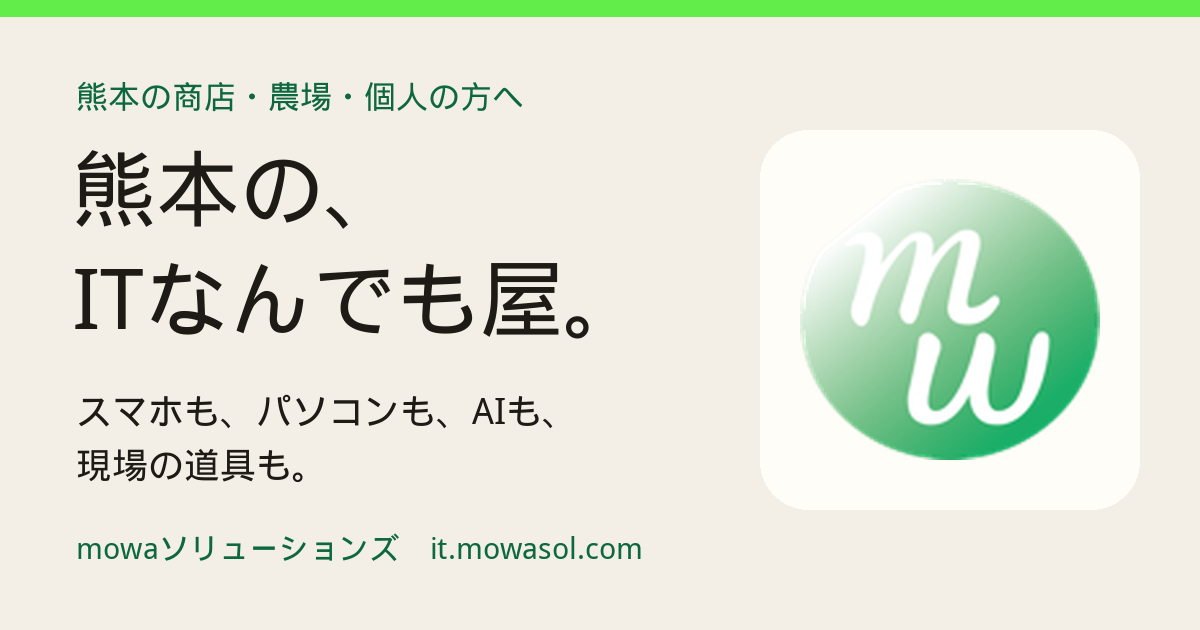
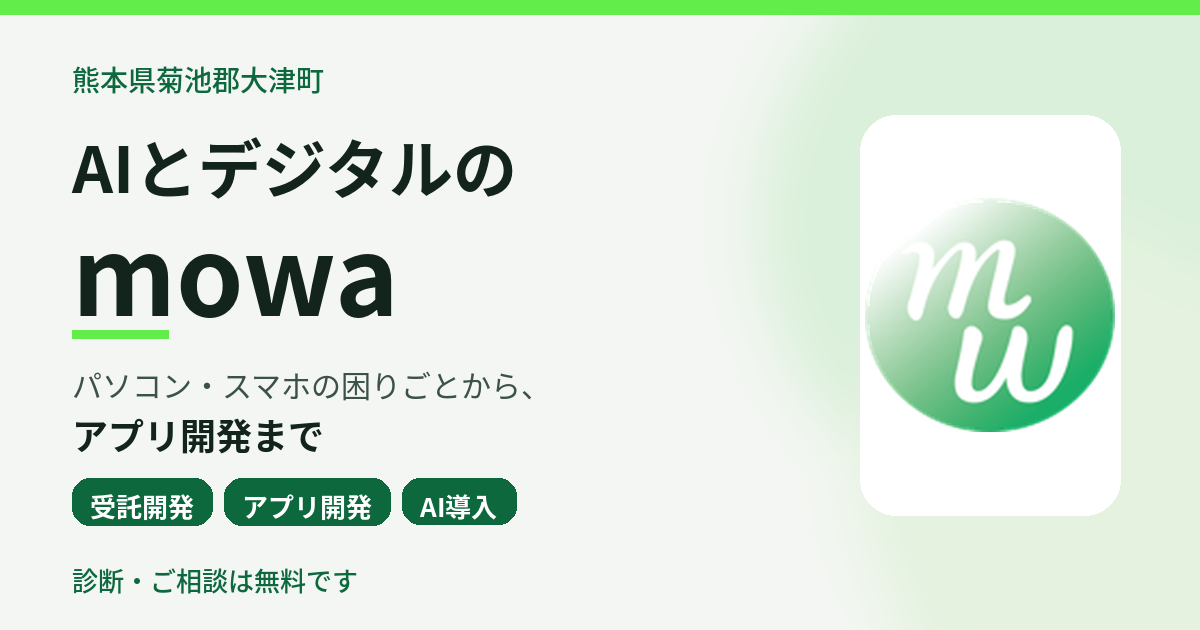
Make the site dev-first and fix the review issues. (#6)
Lead with 受託開発 and the official tagline, drop smartphone repair, and align the description, prices, hours, contact form, privacy page, OGP, and favicon.

diff --git a/index.html b/index.html
@@ -3,8 +3,8 @@
 <head>
   <meta charset="utf-8">
   <meta name="viewport" content="width=device-width, initial-scale=1">
-  <title>AIとデジタルのmowa｜パソコン修理・業務アプリ・AI導入と、半導体テスト装置</title>
-  <meta name="description" content="熊本県菊池郡大津町のmowaソリューションズ株式会社。地域の事業者向けにパソコン修理・業務アプリ開発・AI導入支援を行い、半導体メーカー向けに試験装置PEPPERと試験用基板（BOST）を開発・販売しています。">
+  <title>AIとデジタルのmowa｜パソコン・スマホの困りごとから、アプリ開発まで</title>
+  <meta name="description" content="熊本県菊池郡大津町のAIとデジタルのmowa（mowaソリューションズ株式会社）です。受託開発・アプリ開発・AI導入を中心に、パソコンの修理・設定やスマホの設定のご相談まで対応します。診断・ご相談は無料です。">
   <link rel="canonical" href="https://it.mowasol.com/">
   <meta name="robots" content="index,follow">
   <meta name="theme-color" content="#0d683e">
@@ -14,17 +14,18 @@
   <meta property="og:type" content="website">
   <meta property="og:locale" content="ja_JP">
   <meta property="og:site_name" content="AIとデジタルのmowa">
-  <meta property="og:title" content="AIとデジタルのmowa｜パソコン修理・業務アプリ・AI導入と、半導体テスト装置">
-  <meta property="og:description" content="熊本県菊池郡大津町のmowaソリューションズ株式会社。地域の事業者向けにパソコン修理・業務アプリ開発・AI導入支援を行い、半導体メーカー向けに試験装置PEPPERと試験用基板（BOST）を開発・販売しています。">
+  <meta property="og:title" content="AIとデジタルのmowa｜パソコン・スマホの困りごとから、アプリ開発まで">
+  <meta property="og:description" content="熊本県菊池郡大津町のAIとデジタルのmowa（mowaソリューションズ株式会社）です。受託開発・アプリ開発・AI導入を中心に、パソコンの修理・設定やスマホの設定のご相談まで対応します。診断・ご相談は無料です。">
   <meta property="og:url" content="https://it.mowasol.com/">
   <meta property="og:image" content="https://it.mowasol.com/assets/ogp.png">
   <meta property="og:image:width" content="1200">
   <meta property="og:image:height" content="630">
-  <meta property="og:image:alt" content="AIとデジタルのmowaのマーク。パソコン修理・業務アプリ・AI導入と、半導体テスト装置">
+  <meta property="og:image:alt" content="AIとデジタルのmowa。パソコン・スマホの困りごとから、アプリ開発まで。受託開発・アプリ開発・AI導入。">
   <meta name="twitter:card" content="summary_large_image">
-  <meta name="twitter:title" content="AIとデジタルのmowa｜パソコン修理・業務アプリ・AI導入と、半導体テスト装置">
-  <meta name="twitter:description" content="熊本県菊池郡大津町のmowaソリューションズ株式会社。地域の事業者向けにパソコン修理・業務アプリ開発・AI導入支援を行い、半導体メーカー向けに試験装置PEPPERと試験用基板（BOST）を開発・販売しています。">
+  <meta name="twitter:title" content="AIとデジタルのmowa｜パソコン・スマホの困りごとから、アプリ開発まで">
+  <meta name="twitter:description" content="熊本県菊池郡大津町のAIとデジタルのmowa（mowaソリューションズ株式会社）です。受託開発・アプリ開発・AI導入を中心に、パソコンの修理・設定やスマホの設定のご相談まで対応します。診断・ご相談は無料です。">
   <meta name="twitter:image" content="https://it.mowasol.com/assets/ogp.png">
+  <link rel="icon" href="favicon.ico" sizes="48x48">
   <link rel="icon" href="assets/mowa_logomark.png" type="image/png">
   <link rel="apple-touch-icon" href="assets/mowa_logomark.png">
   <link rel="preconnect" href="https://fonts.googleapis.com">
@@ -88,12 +89,12 @@
         <div>
           <p class="eyebrow hero-rise">熊本県菊池郡大津町　mowaソリューションズ株式会社</p>
           <h1 id="hero-title" class="hero-rise" data-site="name-phrase">AIとデジタルのmowa</h1>
-          <p class="lede hero-rise" data-site="tagline">パソコン修理・<wbr>業務アプリ・<wbr>AI導入と、<wbr>半導体テスト装置</p>
+          <p class="lede hero-rise" data-site="tagline"><span class="phr">パソコン・スマホの</span><wbr><span class="phr">困りごとから、</span><wbr><span class="phr">アプリ開発まで</span></p>
           <ul class="biz-list hero-rise">
             <li>
               <a href="#services">
-                <span class="biz-list__name">ITサービス</span>
-                <span class="biz-list__body">熊本県内の事業者・個人のお客様向けに、<wbr>パソコン・スマホの修理と設定、<wbr>業務アプリの開発、<wbr>AI導入の支援を行います。</span>
+                <span class="biz-list__name">受託開発</span>
+                <span class="biz-list__body">熊本県内の事業者・個人のお客様向けに、<wbr>アプリ開発・AI導入の受託開発を中心に行います。<wbr>パソコンの修理・設定と、<wbr>スマホの設定のご相談も承ります。</span>
               </a>
             </li>
             <li>
@@ -131,7 +132,7 @@
     <section class="section section--paper" id="services">
       <div class="wrap">
         <h2 class="reveal"><span class="stamp" aria-hidden="true">01</span><span class="ttl">ITサービス</span></h2>
-        <p class="lead reveal">熊本県内の事業者・個人のお客様向けのサービスです。<wbr>相談と見積もりは無料です。<wbr>作業の前に、作業内容と金額を書面でお出しします。</p>
+        <p class="lead reveal">受託開発・アプリ開発・AI導入を中心に、<wbr>熊本県内の事業者・個人のお客様向けのサービスです。<wbr>相談と見積もりは無料です。<wbr>作業の前に、作業内容と金額を書面でお出しします。</p>
         <div class="spec-wrap reveal">
           <table class="spec-table">
             <caption class="sr-only">ITサービスの一覧</caption>
@@ -139,18 +140,6 @@
               <tr><th scope="col">サービス</th><th scope="col">内容</th><th scope="col">お渡しするもの</th><th scope="col">料金の目安（仮）</th></tr>
             </thead>
             <tbody>
-            <tr>
-              <th scope="row">パソコン・スマホの修理・設定</th>
-              <td data-label="内容">故障診断、データの救出、メモリ・SSD・バッテリー・マザーボードの交換、LINE・メールの設定</td>
-              <td data-label="お渡しするもの">修理済みの機器、作業報告書</td>
-              <td data-label="料金の目安" class="spec-table__price">5,000円〜</td>
-            </tr>
-            <tr>
-              <th scope="row">パソコンの組み立て</th>
-              <td data-label="内容">用途に合わせたパソコンの組み立て（AI用のGPU搭載PCなど）</td>
-              <td data-label="お渡しするもの">組み立て済みのPC、構成表</td>
-              <td data-label="料金の目安" class="spec-table__price">見積り</td>
-            </tr>
             <tr>
               <th scope="row">業務アプリ・ツールの開発</th>
               <td data-label="内容">日報・在庫・予約・集計を、紙やExcelから置き換えるアプリの開発</td>
@@ -162,6 +151,18 @@
               <td data-label="内容">文章作成・問い合わせ対応への生成AIの導入、社内の利用ルールづくり、社内専用AI（ローカルLLM）の構築</td>
               <td data-label="お渡しするもの">設定済みの環境、利用ルールの文書</td>
               <td data-label="料金の目安" class="spec-table__price">20,000円〜</td>
+            </tr>
+            <tr>
+              <th scope="row">パソコンの修理・設定</th>
+              <td data-label="内容">故障診断、データの救出、メモリ・SSD・バッテリー・マザーボードの交換、LINE・メールの設定、データのバックアップ、ネットにつながらない原因の調査。スマホの設定も承ります。</td>
+              <td data-label="お渡しするもの">修理済みのパソコン、作業報告書</td>
+              <td data-label="料金の目安" class="spec-table__price">5,000円〜</td>
+            </tr>
+            <tr>
+              <th scope="row">パソコンの組み立て</th>
+              <td data-label="内容">用途に合わせたパソコンの組み立て（AI用のGPU搭載PCなど）</td>
+              <td data-label="お渡しするもの">組み立て済みのPC、構成表</td>
+              <td data-label="料金の目安" class="spec-table__price">見積もり</td>
             </tr>
             <tr>
               <th scope="row">電子回路・基板・3Dプリント</th>
@@ -223,7 +224,7 @@
 
         <div class="price-block">
           <h3><span class="ttl"><span class="phr">はじめに</span></span></h3>
-          <ul class="price-grid price-grid--3" data-stagger>
+          <ul class="price-grid" data-stagger>
             <li class="price-card price-card--lead lift reveal-item">
               <h3><span class="phr">診断・ご相談</span></h3>
               <p class="amount"><span class="phr">無料 </span><span class="kari"><span class="phr">仮</span><span class="sr-only"><span class="phr">の</span><wbr><span class="phr">料金</span></span></span></p>
@@ -235,9 +236,14 @@
               <p>熊本県内に60分程度うかがいます。遠方はオプションの日当を加算します。</p>
             </li>
             <li class="price-card lift reveal-item">
-              <h3>パソコン・スマホの修理・設定</h3>
+              <h3>パソコンの修理・設定</h3>
               <p class="amount"><span class="phr">5,000円〜 </span><span class="kari"><span class="phr">仮</span><span class="sr-only"><span class="phr">の</span><wbr><span class="phr">料金</span></span></span></p>
-              <p>LINE・メールの設定、データのバックアップ、ネットにつながらない原因の調査。</p>
+              <p>故障診断、データの救出、メモリ・SSD・バッテリー・マザーボードの交換、LINE・メールの設定、データのバックアップ、ネットにつながらない原因の調査。スマホの設定も承ります。</p>
+            </li>
+            <li class="price-card lift reveal-item">
+              <h3>パソコンの組み立て</h3>
+              <p class="amount"><span class="phr">見積もり </span><span class="kari"><span class="phr">仮</span><span class="sr-only"><span class="phr">の</span><wbr><span class="phr">料金</span></span></span></p>
+              <p>用途に合わせたパソコンの組み立て（AI用のGPU搭載PCなど）</p>
             </li>
           </ul>
         </div>
@@ -270,11 +276,12 @@
 
         <div class="price-block">
           <h3><span class="ttl"><span class="phr">保守プラン（月額）</span></span></h3>
+          <p class="fine">保守ライトの回答は平日です。<wbr>受付は年中無休 9:00〜17:00です。</p>
           <ul class="price-grid price-grid--3" data-stagger>
             <li class="price-card lift reveal-item">
               <h3><span class="phr">ライト</span></h3>
               <p class="amount"><span class="phr">5,000円 / 月 </span><span class="kari"><span class="phr">仮</span><span class="sr-only"><span class="phr">の</span><wbr><span class="phr">料金</span></span></span></p>
-              <p>メッセージでの質問に、平日に回答します。</p>
+              <p>メッセージでの質問に、平日に回答します。受付は年中無休です。</p>
             </li>
             <li class="price-card lift reveal-item">
               <h3><span class="phr">スタンダード</span></h3>
@@ -555,7 +562,7 @@
               <tr><th scope="row">従業員数</th><td>従業員6名、役員2名（2026年11月現在）</td></tr>
               <tr><th scope="row">所在地</th><td>〒869-1217 熊本県菊池郡大津町森729-41</td></tr>
               <tr><th scope="row">電話</th><td><a href="tel:0962828122">096-282-8122</a></td></tr>
-              <tr><th scope="row">事業内容</th><td>ITサービス（パソコン・スマホの修理と設定、業務アプリの開発、AI導入支援、保守）<br>半導体テスト装置・試験用基板の開発、製造、販売<br>プログラミング教室の運営</td></tr>
+              <tr><th scope="row">事業内容</th><td>受託開発（業務アプリ・システムの開発、AI導入支援）、パソコンの修理・設定、スマホの設定、保守<br>半導体テスト装置・試験用基板の開発、製造、販売<br>プログラミング教室の運営</td></tr>
             </tbody>
           </table>
         </div>
@@ -576,7 +583,7 @@
           <div class="reveal">
             <h3>代表あいさつ</h3>
             <p>代表取締役の玉木です。<wbr>2000年からシステムエンジニアとして<wbr>ソフトウェア開発・システム設計に携わり、<wbr>2015年4月にmowaソリューションズ株式会社を設立しました。</p>
-            <p>半導体テストの分野では、<wbr>試験装置・試験用基板・ソフトウェアを<wbr>自社で開発しています。<wbr>その技術をもとに、<wbr>地域の事業者のパソコン修理、<wbr>業務アプリ開発、<wbr>AI導入の支援も行っています。</p>
+            <p>地域の事業者向けには、<wbr>受託開発、<wbr>業務アプリ、<wbr>AI導入を中心にしています。<wbr>パソコンの修理・設定と、<wbr>スマホの設定のご相談も承ります。<wbr>半導体テストの分野では、<wbr>試験装置・試験用基板・ソフトウェアを<wbr>自社で開発しています。</p>
             <figure class="owner-fig">
               <img class="owner" src="assets/photos/owner-tamaki.webp" srcset="assets/photos/owner-tamaki-800.webp 800w, assets/photos/owner-tamaki.webp 1080w" sizes="(max-width: 700px) 92vw, 30vw" width="1080" height="1080" alt="代表取締役の玉木。作業着でピースをしている" loading="lazy" decoding="async">
               <figcaption>代表取締役 玉木 智和</figcaption>
@@ -584,8 +591,8 @@
           </div>
           <ul class="strengths" data-stagger>
             <li class="strength lift reveal-item">
-              <h3>ITサービス</h3>
-              <p>パソコン・スマホの修理と設定、<wbr>パソコンの組み立て、<wbr>業務アプリの開発、<wbr>AI導入の支援、<wbr>保守。</p>
+              <h3>受託開発</h3>
+              <p>業務アプリ・システムの開発、<wbr>AI導入の支援、<wbr>パソコンの修理・設定、<wbr>スマホの設定、<wbr>パソコンの組み立て、<wbr>保守。</p>
             </li>
             <li class="strength lift reveal-item">
               <h3>半導体テスト装置</h3>
@@ -702,7 +709,7 @@
     <section class="section" id="contact">
       <div class="wrap">
         <h2 class="reveal"><span class="stamp" aria-hidden="true"><span class="phr">08</span></span><span class="ttl"><span class="phr">お問い合わせ</span></span></h2>
-        <p class="lead reveal">ITサービス・半導体テスト装置のどちらも、<wbr>このフォーム・メール・お電話で承ります。<wbr>相談と見積もりは無料です。<wbr>いただいた内容は、ご返信と見積もり以外には使いません。</p>
+        <p class="lead reveal">受託開発・アプリ開発も、<wbr>半導体テスト装置も、<wbr>このフォーム・メール・お電話で承ります。<wbr>相談と見積もりは無料です。<wbr>いただいた内容は、ご返信と見積もり以外には使いません。</p>
         <div class="contact-grid">
           <!-- ============================================================
                会社情報
@@ -720,7 +727,7 @@
             </div>
             <div>
               <dt><span class="phr">サービス</span></dt>
-              <dd data-site="tagline"><span class="phr">パソコン修理・</span><wbr><span class="phr">業務アプリ・</span><wbr><span class="phr">AI導入と、</span><wbr><span class="phr">半導体テスト装置</span></dd>
+              <dd data-site="tagline"><span class="phr">パソコン・スマホの</span><wbr><span class="phr">困りごとから、</span><wbr><span class="phr">アプリ開発まで</span></dd>
             </div>
             <div>
               <dt><span class="phr">代表</span></dt>
@@ -757,6 +764,7 @@
               </div>
             </div>
             <p class="mail-fallback"><span class="phr">メールは</span><wbr><a href="mailto:support@mowasol.com">support@mowasol.com</a><span class="phr">（24時間365日）、</span><wbr><span class="phr">お電話は</span><wbr><span class="phr">年中無休の</span><wbr><span class="phr">9時から</span><wbr><span class="phr">17時です。</span></p>
+            <p class="form-privacy"><a href="privacy.html">プライバシーポリシー</a></p>
           </div>
         </div>
         <!-- 会社情報と同じ内容。検索向けの LocalBusiness です。 -->
@@ -766,7 +774,7 @@
           "@type": ["LocalBusiness", "ProfessionalService"],
           "@id": "https://it.mowasol.com/#business",
           "name": "AIとデジタルのmowa",
-          "description": "熊本県菊池郡大津町のmowaソリューションズ株式会社。地域の事業者向けのパソコン修理・業務アプリ開発・AI導入支援と、半導体メーカー向けの試験装置・試験用基板の開発・販売。相談と見積もりは無料。",
+          "description": "熊本県菊池郡大津町のAIとデジタルのmowa（mowaソリューションズ株式会社）です。受託開発・アプリ開発・AI導入を中心に、パソコンの修理・設定やスマホの設定のご相談まで対応します。診断・ご相談は無料です。",
           "url": "https://it.mowasol.com/",
           "image": "https://it.mowasol.com/assets/ogp.png",
           "logo": "https://it.mowasol.com/assets/mowa_logomark.png",
@@ -831,7 +839,7 @@
     <div class="wrap footer-cta">
       <div>
         <p class="footer-cta__kicker">診断・ご相談は無料です</p>
-        <p class="footer-cta__lead">ITサービスと半導体テスト装置のお問い合わせ</p>
+        <p class="footer-cta__lead">受託開発・アプリ開発と、半導体テスト装置のお問い合わせ</p>
       </div>
       <div class="footer-cta__actions">
         <a class="btn btn--primary" href="#contact">お問い合わせ</a>
@@ -840,8 +848,8 @@
     </div>
     <div class="wrap footer-grid">
       <div>
-        <p class="footer-brand"><img src="assets/mowa_logomark.png" alt="" width="116" height="109"><span class="brand__name"><span data-site="name" class="phr">AIとデジタルのmowa</span><small data-site="tagline"><span class="phr">パソコン修理・</span><wbr><span class="phr">業務アプリ・</span><wbr><span class="phr">AI導入と、</span><wbr><span class="phr">半導体テスト装置</span></small></span></p>
-        <p>熊本県菊池郡大津町。<wbr>パソコン修理・業務アプリ・AI導入と、<wbr>半導体テスト装置の開発。</p>
+        <p class="footer-brand"><img src="assets/mowa_logomark.png" alt="" width="116" height="109"><span class="brand__name"><span data-site="name" class="phr">AIとデジタルのmowa</span><small data-site="tagline"><span class="phr">パソコン・スマホの</span><wbr><span class="phr">困りごとから、</span><wbr><span class="phr">アプリ開発まで</span></small></span></p>
+        <p>熊本県菊池郡大津町。<wbr>受託開発・アプリ開発・AI導入を中心に、<wbr>パソコン・スマホの困りごとまで対応します。</p>
         <p><span class="phr">年中無休 9:00–17:00</span><br><a href="tel:0962828122">096-282-8122</a></p>
       </div>
       <div>
@@ -855,6 +863,7 @@
           <li><a href="#flow">流れ</a></li>
           <li><a href="#faq">質問</a></li>
           <li><a href="#contact">お問い合わせ</a></li>
+          <li><a href="privacy.html">プライバシーポリシー</a></li>
           <li><a href="#top">ページの上へ</a></li>
         </ul>
       </div>

diff --git a/privacy.html b/privacy.html
@@ -1,0 +1,56 @@
+<!DOCTYPE html>
+<html lang="ja">
+<head>
+  <meta charset="utf-8">
+  <meta name="viewport" content="width=device-width, initial-scale=1">
+  <title>プライバシーポリシー｜AIとデジタルのmowa</title>
+  <meta name="description" content="mowaソリューションズ株式会社のお問い合わせに関するプライバシーポリシーです。取得する情報、返信のための利用、法令に基づく場合を除く第三者提供の有無を記載しています。">
+  <link rel="canonical" href="https://it.mowasol.com/privacy.html">
+  <meta name="robots" content="index,follow">
+  <meta name="theme-color" content="#0d683e">
+  <link rel="icon" href="favicon.ico" sizes="48x48">
+  <link rel="icon" href="assets/mowa_logomark.png" type="image/png">
+  <link rel="preconnect" href="https://fonts.googleapis.com">
+  <link rel="preconnect" href="https://fonts.gstatic.com" crossorigin>
+  <link rel="stylesheet" href="https://fonts.googleapis.com/css2?family=BIZ+UDPGothic:wght@400;700&family=M+PLUS+Rounded+1c:wght@500;700;800&display=swap">
+  <link rel="stylesheet" href="styles.css">
+</head>
+<body>
+  <a class="skip" href="#main">本文へ<wbr>進む</a>
+  <header class="site-header">
+    <div class="wrap header-inner">
+      <a class="brand" href="index.html">
+        <img class="logo" src="assets/mowa_neko_logo.jpg" alt="AIとデジタルのmowa" width="754" height="193">
+        <span class="brand__service"><span class="phr">AIとデジタルの</span><wbr><span class="phr">mowa</span></span>
+      </a>
+      <nav class="nav-wide" aria-label="ページ">
+        <a href="index.html#contact">お問い合わせ</a>
+        <a class="menu__cta" href="index.html">トップ</a>
+      </nav>
+    </div>
+  </header>
+  <main id="main" class="section">
+    <div class="wrap privacy">
+      <h1>プライバシーポリシー</h1>
+      <p class="lead">mowaソリューションズ株式会社（以下、当社）は、<wbr>お問い合わせでお預かりする情報を、<wbr>次のとおり扱います。</p>
+      <h2>事業者</h2>
+      <p>運営は mowaソリューションズ株式会社です。<br>電話：<a href="tel:0962828122">096-282-8122</a></p>
+      <h2>取得する情報</h2>
+      <p>お問い合わせフォームでは、<wbr>お名前、<wbr>ご連絡先（メールアドレスまたは電話番号）、<wbr>ご相談の内容、<wbr>ご希望の対応方法をうかがいます。</p>
+      <h2>利用目的</h2>
+      <p>取得した情報は、<wbr>お問い合わせへの返信に使います。<wbr>見積もりのご連絡も、この目的に含みます。</p>
+      <h2>第三者への提供</h2>
+      <p>取得した情報は、<wbr>法令に基づく場合を除き、<wbr>第三者に提供しません。</p>
+      <h2>お問い合わせ</h2>
+      <p>この方針についてのご質問は、<wbr>お電話 <a href="tel:0962828122">096-282-8122</a>（年中無休 9:00〜17:00）<wbr>または <a href="mailto:support@mowasol.com">support@mowasol.com</a> までご連絡ください。</p>
+      <p class="actions"><a class="btn btn--primary" href="index.html#contact">お問い合わせへ</a> <a class="btn btn--ghost" href="index.html">トップへ戻る</a></p>
+    </div>
+  </main>
+  <footer class="site-footer">
+    <div class="wrap legal">
+      <p>運営：mowaソリューションズ株式会社　<a href="tel:0962828122">096-282-8122</a></p>
+      <p><a href="index.html">AIとデジタルのmowa</a></p>
+    </div>
+  </footer>
+</body>
+</html>

diff --git a/styles.css b/styles.css
@@ -1024,10 +1024,18 @@ section[id] { scroll-margin-top: 5.6rem; }
 .form-frame {
   display: block;
   width: 100%;
-  min-height: 720px;
+  height: 1400px;
+  min-height: 1400px;
   border: 0;
   border-radius: 12px;
   background: #fff;
+}
+.form-privacy { margin: 0.8rem 0 0; }
+@media (max-width: 520px) {
+  .form-frame {
+    height: 1720px;
+    min-height: 1720px;
+  }
 }
 .form-warn {
   background: #fff4f0;
@@ -1164,6 +1172,12 @@ body:has(dialog[open]) .dock { display: none; }
   align-content: center;
   padding: 3rem 0;
 }
+.privacy { max-width: 44rem; }
+.privacy h2 {
+  font-size: 1.35rem;
+  margin: 1.6rem 0 0.4rem;
+}
+.privacy .actions { display: flex; flex-wrap: wrap; gap: 10px; margin-top: 1.6rem; }
 
 @media (max-width: 520px) {
   .brand__service { display: none; }

diff --git a/404.html b/404.html
@@ -6,6 +6,7 @@
   <meta name="robots" content="noindex">
   <title>ページが見つかりません｜AIとデジタルのmowa</title>
   <meta name="theme-color" content="#0d683e">
+  <link rel="icon" href="favicon.ico" sizes="48x48">
   <link rel="icon" href="assets/mowa_logomark.png" type="image/png">
   <link rel="preconnect" href="https://fonts.googleapis.com">
   <link rel="preconnect" href="https://fonts.gstatic.com" crossorigin>

diff --git a/scripts/check_site.py b/scripts/check_site.py
@@ -7,6 +7,7 @@ from pathlib import Path
 root = Path(__file__).resolve().parents[1]
 text_files = [
     root / "index.html",
+    root / "privacy.html",
     root / "404.html",
     root / "styles.css",
     root / "site.js",
@@ -44,13 +45,40 @@ cname = (root / "CNAME").read_text(encoding="utf-8").strip()
 if cname != "it.mowasol.com":
     named.append(f"CNAME is {cname!r}")
 
-visible = re.sub(r"<[^>]+>", "", (root / "index.html").read_text(encoding="utf-8"))
+html = (root / "index.html").read_text(encoding="utf-8")
+visible = re.sub(r"<[^>]+>", "", html)
 if "診断・ご相談は無料" not in visible:
     named.append("missing 診断・ご相談は無料")
-if "AIとデジタルのmowa" not in visible or "パソコン修理・業務アプリ・AI導入と、半導体テスト装置" not in visible:
+if "AIとデジタルのmowa" not in visible or "パソコン・スマホの困りごとから、アプリ開発まで" not in visible:
     named.append("brand name or tagline missing")
+if "受託開発" not in visible:
+    named.append("受託開発 missing")
+if "パソコン修理・業務アプリ・AI導入と、半導体テスト装置" in visible:
+    named.append("old tagline still visible")
+if "スマホの修理" in visible or "パソコン・スマホの修理" in visible:
+    named.append("smartphone repair still offered")
+if "見積り" in visible:
+    named.append("見積り should be 見積もり")
+if re.search(r"(?<![A-Za-z])DX(?![A-Za-z])", visible):
+    named.append("DX is used")
 if "ITなんでも屋" in visible or "なんでも屋" in visible:
     named.append("old shop name still visible")
+if "privacy.html" not in html:
+    named.append("privacy link missing")
+if not (root / "favicon.ico").is_file():
+    named.append("favicon.ico missing")
+
+desc = "熊本県菊池郡大津町のAIとデジタルのmowa（mowaソリューションズ株式会社）です。受託開発・アプリ開発・AI導入を中心に、パソコンの修理・設定やスマホの設定のご相談まで対応します。診断・ご相談は無料です。"
+meta_descs = re.findall(r'<meta (?:name="description"|property="og:description"|name="twitter:description") content="([^"]*)"', html)
+ld = re.search(r'"description": "([^"]*)"', html)
+js = (root / "site.js").read_text(encoding="utf-8")
+js_desc = re.search(r'description:\s*"([^"]*)"', js)
+if meta_descs != [desc, desc, desc] or not ld or ld.group(1) != desc or not js_desc or js_desc.group(1) != desc:
+    named.append("descriptions are not unified")
+if "パソコン・スマホの困りごとから、アプリ開発まで" not in js:
+    named.append("site.js tagline missing")
+if "パソコン修理・業務アプリ・AI導入と、半導体テスト装置" in js:
+    named.append("site.js old tagline")
 
 if missing or named:
     print("\n".join(missing + named))
